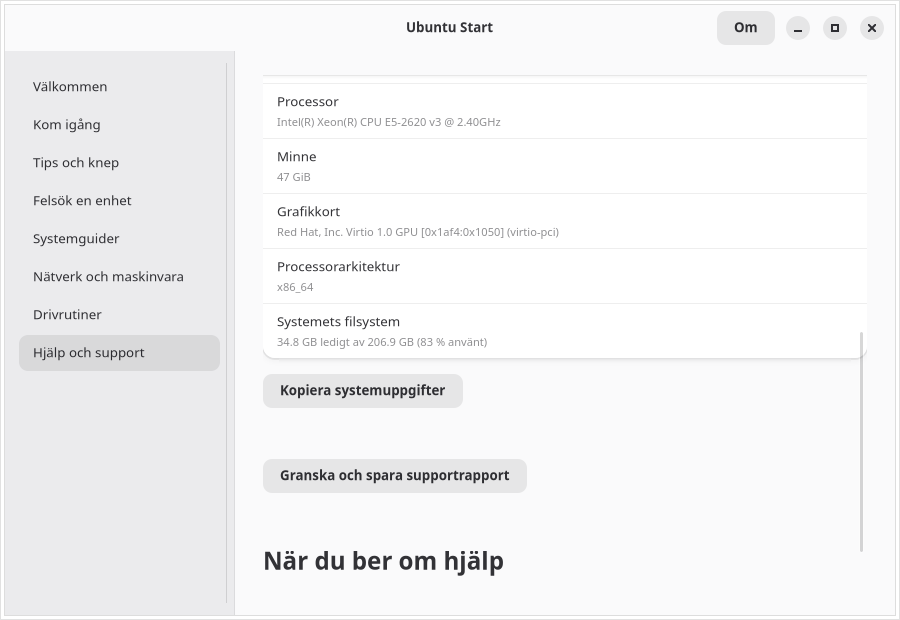
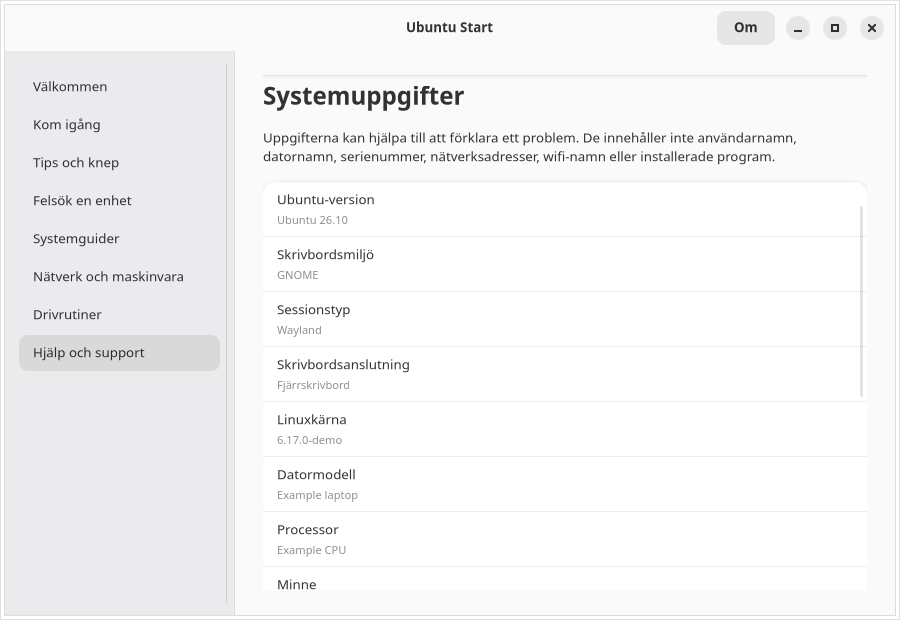
Report remote desktop session status

Changed region(s): [[0.28, 0.1226, 0.8711, 0.95], [0.9333, 0.6435, 0.9644, 0.8887], [0.9333, 0.3371, 0.9644, 0.521]]

diff --git a/src/ubuntu_start.py b/src/ubuntu_start.py
@@ -13,7 +13,7 @@ import gi
 gi.require_version("Adw", "1")
 gi.require_version("Gtk", "4.0")
 from gi.repository import Adw, Gdk, Gio, GLib, Gtk
-from system_diagnostics import battery_is_discharging, battery_power_status_unknown, benchmark_score_change_percent, build_support_report, check_internet_connection, clear_benchmark_baselines, find_benchmark_tool, find_graphics_benchmark_tool, load_benchmark_baselines, normalize_desktop_name, normalize_session_type, parse_glmark2_score, pressure_threshold_exceeded, read_accessibility_settings, read_apt_update_status, read_audio_status, read_battery_status, read_bluetooth_status, read_display_connectors, read_failed_services, read_hardware_details, read_interface_ip_status, read_memory_status, read_network_adapter_details, read_network_devices, read_package_health, read_pci_devices, read_power_profile, read_printer_status, read_reboot_required, read_resource_pressure, read_rfkill_status, read_secure_boot_status, read_storage_locations, read_temperature_sensors, read_time_status, read_usb_devices, read_video_devices, read_wifi_link_status, run_cpu_benchmark, run_network_diagnostics, save_benchmark_baseline, sensor_near_critical_limit
+from system_diagnostics import battery_is_discharging, battery_power_status_unknown, benchmark_score_change_percent, build_support_report, check_internet_connection, clear_benchmark_baselines, find_benchmark_tool, find_graphics_benchmark_tool, load_benchmark_baselines, normalize_desktop_name, normalize_session_type, parse_glmark2_score, pressure_threshold_exceeded, read_accessibility_settings, read_apt_update_status, read_audio_status, read_battery_status, read_bluetooth_status, read_display_connectors, read_failed_services, read_hardware_details, read_interface_ip_status, read_memory_status, read_network_adapter_details, read_network_devices, read_package_health, read_pci_devices, read_power_profile, read_printer_status, read_remote_session, read_reboot_required, read_resource_pressure, read_rfkill_status, read_secure_boot_status, read_storage_locations, read_temperature_sensors, read_time_status, read_usb_devices, read_video_devices, read_wifi_link_status, run_cpu_benchmark, run_network_diagnostics, save_benchmark_baseline, sensor_near_critical_limit
 from guide_search import find_guide_matches
 from first_run_state import TASK_IDS as FIRST_RUN_TASK_IDS, load_completed_tasks, save_completed_tasks
 
@@ -2700,6 +2700,7 @@ class UbuntuStart(Adw.Application):
             (_("Ubuntu version"), os_name),
             (_("Desktop"), desktop),
             (_("Session type"), session_type_label),
+            (_("Desktop connection"), desktop_connection_label(read_remote_session())),
             (_("Kernel"), platform.release()),
             (_("System model"), hardware["system_model"] or _("Not available")),
             (_("Processor"), hardware["processor"] or _("Not available")),
@@ -3086,6 +3087,15 @@ def format_milliseconds(value: int | float) -> str:
 
 
 _n = gettext.ngettext
+
+
+def desktop_connection_label(remote_session: bool | None) -> str:
+    """Describe local/remote access without displaying a remote host identity."""
+    if remote_session is True:
+        return _("Remote desktop")
+    if remote_session is False:
+        return _("Local desktop")
+    return _("Not available")
 
 
 def main():

diff --git a/tests/test_system_diagnostics.py b/tests/test_system_diagnostics.py
@@ -48,6 +48,7 @@ from system_diagnostics import (
     find_graphics_benchmark_tool,
     parse_glmark2_score,
     parse_secure_boot_status,
+    read_remote_session,
     read_secure_boot_status,
     read_memory_status,
     parse_pressure_status,
@@ -263,6 +264,54 @@ class SessionTypeTests(unittest.TestCase):
 
     def test_does_not_guess_a_desktop_when_xdg_values_are_missing(self):
         self.assertIsNone(normalize_desktop_name(None, None))
+
+
+class RemoteSessionTests(unittest.TestCase):
+    @patch.dict("system_diagnostics.os.environ", {"XDG_SESSION_ID": "42"}, clear=True)
+    @patch("system_diagnostics.shutil.which", return_value="/usr/bin/loginctl")
+    @patch("system_diagnostics._run_local")
+    def test_reads_remote_flag_for_current_session(self, run_local, _which):
+        run_local.return_value = SimpleNamespace(returncode=0, stdout="yes\n")
+
+        self.assertIs(read_remote_session(), True)
+        self.assertEqual(
+            run_local.call_args.args[0],
+            ["/usr/bin/loginctl", "show-session", "42", "--property=Remote", "--value"],
+        )
+
+    @patch.dict("system_diagnostics.os.environ", {}, clear=True)
+    @patch("system_diagnostics.os.getuid", return_value=1002)
+    @patch("system_diagnostics.shutil.which", return_value="/usr/bin/loginctl")
+    @patch("system_diagnostics._run_local")
+    def test_finds_active_display_session_when_session_id_is_not_in_environment(
+        self, run_local, _which, _getuid,
+    ):
+        run_local.side_effect = [
+            SimpleNamespace(returncode=0, stdout="18410\n"),
+            SimpleNamespace(returncode=0, stdout="yes\n"),
+        ]
+
+        self.assertIs(read_remote_session(), True)
+        self.assertEqual(
+            run_local.call_args_list[0].args[0],
+            ["/usr/bin/loginctl", "show-user", "1002", "--property=Display", "--value"],
+        )
+        self.assertEqual(
+            run_local.call_args_list[1].args[0],
+            ["/usr/bin/loginctl", "show-session", "18410", "--property=Remote", "--value"],
+        )
+
+    @patch.dict("system_diagnostics.os.environ", {"XDG_SESSION_ID": "42"}, clear=True)
+    @patch("system_diagnostics.shutil.which", return_value="/usr/bin/loginctl")
+    @patch("system_diagnostics._run_local")
+    def test_reports_local_session(self, run_local, _which):
+        run_local.return_value = SimpleNamespace(returncode=0, stdout="no\n")
+
+        self.assertIs(read_remote_session(), False)
+
+    @patch("system_diagnostics.shutil.which", return_value=None)
+    def test_preserves_unavailable_state_when_loginctl_is_missing(self, _which):
+        self.assertIsNone(read_remote_session())
 
 
 class SupportReportTests(unittest.TestCase):

diff --git a/src/system_diagnostics.py b/src/system_diagnostics.py
@@ -1018,6 +1018,44 @@ def normalize_session_type(session_type: str | None) -> str | None:
     }.get(session_type.strip().casefold())
 
 
+def read_remote_session(timeout: float = 1.5) -> bool | None:
+    """Report whether the current user's active graphical session is remote.
+
+    Only logind's local Remote flag is returned. Host names, addresses and
+    session identifiers are never included in the result.
+    """
+    loginctl = shutil.which("loginctl")
+    if not loginctl:
+        return None
+
+    env = os.environ.copy()
+    env.update({"LANG": "C", "LC_ALL": "C"})
+    env.pop("LANGUAGE", None)
+    session_id = os.environ.get("XDG_SESSION_ID", "").strip()
+    if not re.fullmatch(r"[0-9]+", session_id):
+        user_session = _run_local(
+            [loginctl, "show-user", str(os.getuid()), "--property=Display", "--value"],
+            timeout,
+            env=env,
+        )
+        if not user_session or user_session.returncode != 0:
+            return None
+        session_id = user_session.stdout.strip()
+        if not re.fullmatch(r"[0-9]+", session_id):
+            return None
+
+    result = _run_local(
+        [loginctl, "show-session", session_id, "--property=Remote", "--value"],
+        timeout,
+        env=env,
+    )
+    if not result or result.returncode != 0:
+        return None
+    return {"yes": True, "true": True, "no": False, "false": False}.get(
+        result.stdout.strip().casefold()
+    )
+
+
 def normalize_desktop_name(current_desktop: str | None, session_desktop: str | None) -> str | None:
     """Return the reported desktop names without guessing when XDG values are absent."""
     for value in (current_desktop, session_desktop):

diff --git a/tests/test_accessibility_announcements.py b/tests/test_accessibility_announcements.py
@@ -2,7 +2,8 @@ import unittest
 from unittest.mock import Mock, call, patch
 
 from ubuntu_start import (
-    Adw, Gdk, GLib, Gtk, GUIDES, SYSTEM_GUIDES, UbuntuStart, format_milliseconds,
+    Adw, Gdk, GLib, Gtk, GUIDES, SYSTEM_GUIDES, UbuntuStart,
+    desktop_connection_label, format_milliseconds,
 )
 from guide_search import find_guide_matches
 
@@ -850,7 +851,13 @@ class AboutDialogTests(unittest.TestCase):
 
 
 class SystemDetailsTests(unittest.TestCase):
+    def test_desktop_connection_label_preserves_unknown_state(self):
+        self.assertEqual(desktop_connection_label(True), "Remote desktop")
+        self.assertEqual(desktop_connection_label(False), "Local desktop")
+        self.assertEqual(desktop_connection_label(None), "Not available")
+
     @patch.dict("ubuntu_start.os.environ", {"XDG_SESSION_TYPE": "wayland"})
+    @patch("ubuntu_start.read_remote_session", return_value=True)
     @patch("ubuntu_start.read_storage_locations", return_value={
         "system": {"total": 1000, "used": 500, "free": 500},
     })
@@ -863,6 +870,7 @@ class SystemDetailsTests(unittest.TestCase):
         details = dict(UbuntuStart.system_details(Mock()))
 
         self.assertEqual(details["Session type"], "Wayland")
+        self.assertEqual(details["Desktop connection"], "Remote desktop")
 
     @patch("ubuntu_start.read_storage_locations")
     @patch("ubuntu_start.read_hardware_details")

diff --git a/README.md b/README.md
@@ -78,7 +78,7 @@ meson compile -C build
 sudo meson install -C build
 ```
 
-To build an installable Debian package after installing the dependencies, run `scripts/build-deb.sh`. It creates `build/packages/ubuntu-start_0.3.13-1_all.deb`. Install it with `sudo apt install ./build/packages/ubuntu-start_0.3.13-1_all.deb`; APT resolves the declared GTK and Python runtime dependencies.
+To build an installable Debian package after installing the dependencies, run `scripts/build-deb.sh`. It creates `build/packages/ubuntu-start_0.3.14-1_all.deb`. Install it with `sudo apt install ./build/packages/ubuntu-start_0.3.14-1_all.deb`; APT resolves the declared GTK and Python runtime dependencies.
 
 The wheel and source distribution are published on [PyPI](https://pypi.org/project/ubuntu-start/). Install the GTK platform dependencies with APT first, then install the package in an isolated environment that can access system PyGObject bindings:
 
@@ -104,7 +104,7 @@ NetworkManager, Bluetooth, audio, storage, battery and hardware summaries use lo
 
 ## Validation
 
-Version `0.3.13` adds step-by-step instructions for inspecting a failed system service and reviewing recent log messages safely. On Ubuntu 26.10 machine `trv2`, 271 unit tests and the Xvfb/AT-SPI accessibility check passed; AppStream validation passed, and package `0.3.13-1` installed with clean `dpkg --audit` and `apt-get check` results. The English and Swedish screenshots and AT-SPI accessibility check used Xvfb on `trv2`. A later live-session check confirmed GNOME Wayland over RDP with Ubuntu Start running in that session. AT-SPI exposes the `Ubuntu Start` frame and reports it as visible. This verifies startup and accessibility-tree visibility in GNOME/Wayland over RDP; pixel-level display rendering and physical device behavior remain unverified.
+Version `0.3.14` adds local/remote desktop-session status to system details and the optional support report, without including remote host details. On Ubuntu 26.10 machine `trv2`, the live logind check identified the active GNOME Wayland session as remote. All 276 unit tests and both English and Swedish Xvfb/AT-SPI checks passed. Version `0.3.13` added step-by-step instructions for inspecting a failed system service and reviewing recent log messages safely. The prior `0.3.13-1` package installed with clean `dpkg --audit` and `apt-get check` results. A live-session check confirmed GNOME Wayland over RDP with Ubuntu Start running in that session. AT-SPI exposed the `Ubuntu Start` frame and reported it as visible. Pixel-level display rendering and physical device behavior remain unverified.
 
 The CI workflow launches the application under Xvfb and checks its AT-SPI tree. On Ubuntu 24.04 and 26.04, it verifies that all eight guide pages are named list items, the About, USB, video and display controls are named buttons, the Mouse Keys status row is exposed, and Ctrl+F moves keyboard focus to the named guide-search entry; Orca 51 also lists the app on `trv2`. Ubuntu 26.10 now runs the same unit, accessibility and package checks in CI, and the released app has also passed a local GTK smoke test on that release. Earlier checks confirmed search behavior in a live GTK session and the Bluetooth, Wi-Fi, printer, display, privacy, sound and keyboard panel identifiers in GNOME Control Center. The two Ubuntu driver/update utilities were installed with `dpkg -i`; Additional Drivers and Update Manager opened in Swedish, and `dpkg --audit` and `apt-get check` reported no package errors. Those device and utility checks apply to the earlier revision. Xvfb does not verify physical-device behavior, hardware acceleration or GNOME/Wayland rendering.
 
@@ -121,7 +121,7 @@ See [po/README.md](po/README.md) for instructions on updating Swedish translatio
 
 ## Current limitations
 
-Ubuntu Start targets Ubuntu Desktop with GNOME. Device guides explain checks for the user to perform; they do not identify physical faults or change the system. Temperature values depend on sensors exposed by Linux and may be missing on some computers and virtual machines. Wireless radio block status depends on the `rfkill` interface being exposed by Linux and can be unavailable on some hardware. Secure Boot status depends on firmware support and the optional `mokutil` utility; unavailable status does not mean that Secure Boot is enabled or disabled. Network diagnostics ask first, make one DNS lookup for `ubuntu.com` and one ping to the local gateway, and do not upload a report. The update status check uses only existing APT package lists, so its results can be out of date; open Software Updater to refresh the lists and review changes. The optional package health check runs the local `dpkg --audit` report and lists package entries it flags; it does not repair packages. Review any proposed changes in Ubuntu's own tools. The app does not install packages, drivers or run privileged operations. GNOME panel names and the Additional Drivers launcher can vary by Ubuntu release. If a shortcut does not open the expected page, open Settings and choose the section manually. For drivers, search for Software & Updates and select Additional Drivers.
+Ubuntu Start targets Ubuntu Desktop with GNOME. Device guides explain checks for the user to perform; they do not identify physical faults or change the system. Temperature values depend on sensors exposed by Linux and may be missing on some computers and virtual machines. Wireless radio block status depends on the `rfkill` interface being exposed by Linux and can be unavailable on some hardware. Secure Boot status depends on firmware support and the optional `mokutil` utility; unavailable status does not mean that Secure Boot is enabled or disabled. Network diagnostics ask first, make one DNS lookup for `ubuntu.com` and one ping to the local gateway, and do not upload a report. The copyable system-details report includes whether logind reports the active desktop session as local or remote. It does not include the remote host name or address. The update status check uses only existing APT package lists, so its results can be out of date; open Software Updater to refresh the lists and review changes. The optional package health check runs the local `dpkg --audit` report and lists package entries it flags; it does not repair packages. Review any proposed changes in Ubuntu's own tools. The app does not install packages, drivers or run privileged operations. GNOME panel names and the Additional Drivers launcher can vary by Ubuntu release. If a shortcut does not open the expected page, open Settings and choose the section manually. For drivers, search for Software & Updates and select Additional Drivers.
 
 ## Performance benchmarks
 

diff --git a/po/README.md b/po/README.md
@@ -28,12 +28,12 @@ Run these commands from the repository root:
 
 ```sh
 xgettext --from-code=UTF-8 --language=Python --keyword=_ --keyword=_n:1,2 \
-  --package-name="Ubuntu Start" --package-version=0.3.13 \
+  --package-name="Ubuntu Start" --package-version=0.3.14 \
   --copyright-holder="Ubuntu Start contributors" \
   --msgid-bugs-address=https://github.com/yeager/ubuntu-start/issues \
   --output=po/ubuntu-start.pot src/ubuntu_start.py
 xgettext --from-code=UTF-8 --language=Desktop --join-existing \
-  --package-name="Ubuntu Start" --package-version=0.3.13 \
+  --package-name="Ubuntu Start" --package-version=0.3.14 \
   --copyright-holder="Ubuntu Start contributors" \
   --msgid-bugs-address=https://github.com/yeager/ubuntu-start/issues \
   --output=po/ubuntu-start.pot data/se.nylander.UbuntuStart.desktop
